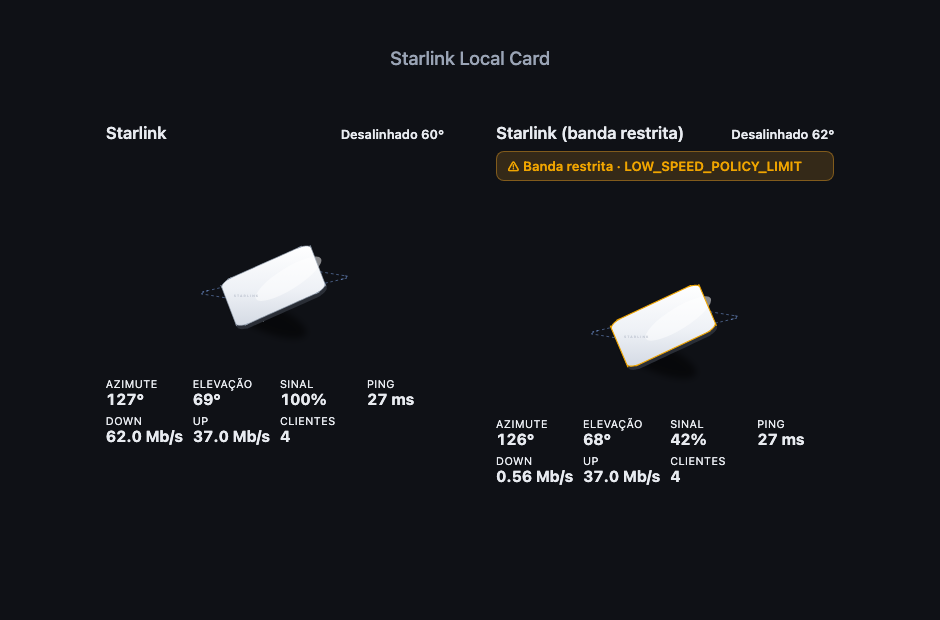
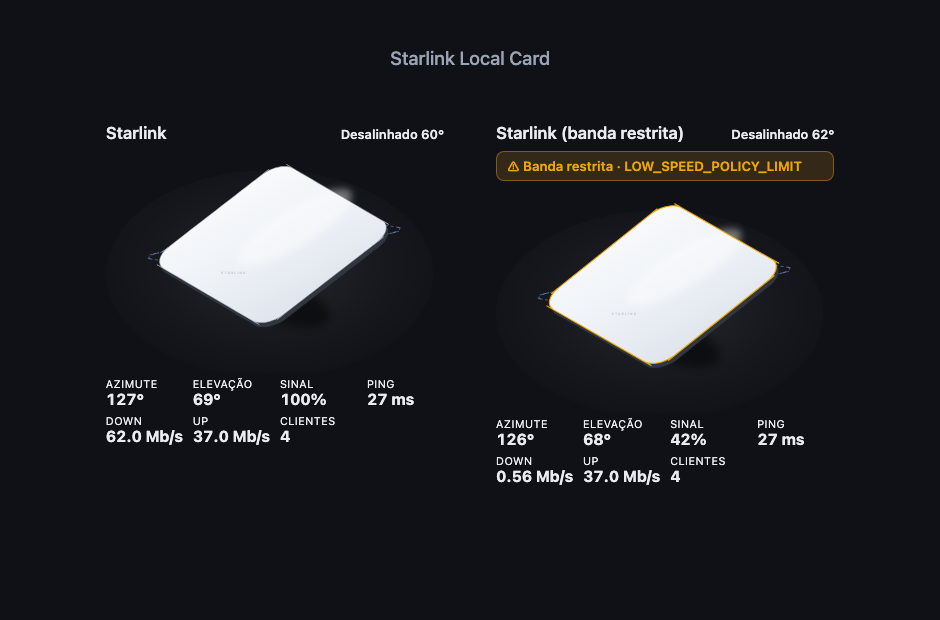
polish: product-render look — bigger centered dish, studio spotlight, soft diagonal sheen, refined contact shadow and thinner edge

Changed region(s): [[0.5862, 0.3065, 0.833, 0.6129], [0.1543, 0.2452, 0.4319, 0.4903], [0.2468, 0.4597, 0.3394, 0.5516]]

diff --git a/ha-starlink-local-card.js b/ha-starlink-local-card.js
@@ -6,13 +6,13 @@ const CAM = { az: 32, el: 22 };
 const RAD = Math.PI / 180;
 
 // --- camera / projection --------------------------------------------------
-function projection(width, height, pad = 30) {
+function projection(width, height, pad = 16) {
   const sinA = Math.sin(CAM.az * RAD), cosA = Math.cos(CAM.az * RAD);
   const sinE = Math.sin(CAM.el * RAD), cosE = Math.cos(CAM.el * RAD);
   const flat = ([x, y, z]) => [x * sinA - y * cosA, (x * cosA + y * sinA) * sinE - z * cosE];
   const pts = [];
-  for (const sx of [-1, 1]) for (const sy of [-1, 1]) for (const z of [-6, 150])
-    pts.push(flat([sx * 70, sy * 70, z]));
+  for (const sx of [-1, 1]) for (const sy of [-1, 1]) for (const z of [-4, 52])
+    pts.push(flat([sx * 80, sy * 74, z]));
   const xs = pts.map((p) => p[0]), ys = pts.map((p) => p[1]);
   const lo = [Math.min(...xs), Math.min(...ys)], hi = [Math.max(...xs), Math.max(...ys)];
   const scale = Math.min((width - pad * 2) / (hi[0] - lo[0]), (height - pad * 2) / (hi[1] - lo[1]));
@@ -46,8 +46,8 @@ const smoothPath = (pts) => {
 // --- Starlink Mini geometry (faithful to the official render) --------------
 // A thin flat rounded-rectangle slab: bright white face, dark edge band, a
 // small flip-out kickstand. It reclines to the dish's azimuth/elevation.
-const SLAB = { a: 68, b: 54, r: 15, t: 5 };        // half-w, half-h, corner, thickness
-const CENTER = [0, 0, 34];                          // slab centre, low to the ground
+const SLAB = { a: 70, b: 56, r: 16, t: 4 };        // half-w, half-h, corner, thickness
+const CENTER = [0, 0, 30];                          // slab centre, low to the ground
 const add = (p, v, s = 1) => [p[0] + v[0] * s, p[1] + v[1] * s, p[2] + v[2] * s];
 
 function frame(azDeg, elDeg) {
@@ -223,16 +223,16 @@ class StarlinkLocalCard extends HTMLElement {
         <div id="badge" class="badge" hidden></div>
         <svg viewBox="0 0 620 420" preserveAspectRatio="xMidYMid meet" aria-label="Starlink dish">
           <defs>
-            <linearGradient id="slFace" x1="0" y1="0" x2="0" y2="1">
-              <stop offset="0" stop-color="#ffffff"/><stop offset="0.55" stop-color="#eef1f6"/><stop offset="1" stop-color="#d4dae4"/>
+            <linearGradient id="slFace" x1="0.1" y1="0" x2="0.9" y2="1">
+              <stop offset="0" stop-color="#ffffff"/><stop offset="0.5" stop-color="#eef2f7"/><stop offset="1" stop-color="#d6dce6"/>
             </linearGradient>
-            <linearGradient id="slMast" x1="0" y1="0" x2="1" y2="0">
-              <stop offset="0" stop-color="#e9edf3"/><stop offset="1" stop-color="#c4ccd9"/>
-            </linearGradient>
-            <radialGradient id="slHub" cx="0.4" cy="0.35" r="0.7">
-              <stop offset="0" stop-color="#ffffff"/><stop offset="1" stop-color="#c9d1dd"/>
+            <radialGradient id="slStage" cx="0.5" cy="0.46" r="0.6">
+              <stop offset="0" stop-color="#ffffff" stop-opacity="0.10"/>
+              <stop offset="0.6" stop-color="#ffffff" stop-opacity="0.03"/>
+              <stop offset="1" stop-color="#ffffff" stop-opacity="0"/>
             </radialGradient>
           </defs>
+          <ellipse class="sl-spot" cx="300" cy="240" rx="300" ry="190"/>
           <g id="stand"></g><g id="ghost"></g><g id="mini"></g>
         </svg>
         <div class="readout">
@@ -259,14 +259,15 @@ ha-card{overflow:hidden}
 .badge{margin:8px 0 2px;padding:6px 10px;border-radius:8px;font-size:.82rem;font-weight:600;
   background:rgba(245,166,35,.16);color:#f0a500;border:1px solid rgba(245,166,35,.4)}
 svg{width:100%;height:auto;display:block}
-.sl-shadow{fill:rgba(10,14,22,.34);filter:blur(6px)}
-.sl-stand{fill:#e9edf2;stroke:#c3ccd8;stroke-width:1}
-.sl-stand-sh{fill:#cdd4de;opacity:.9}
-.sl-rim{fill:#2a2e36}
+.sl-spot{fill:url(#slStage)}
+.sl-shadow{fill:rgba(8,11,18,.38);filter:blur(9px)}
+.sl-stand{fill:#e4e9f0;stroke:#c3ccd8;stroke-width:1}
+.sl-stand-sh{fill:#c7cfdb;opacity:.9}
+.sl-rim{fill:#31353d}
 .sl-face{fill:url(#slFace)}
-.sl-edge{fill:none;stroke:#9aa6b6;stroke-width:1.2}
+.sl-edge{fill:none;stroke:#aab4c3;stroke-width:1}
 .sl-edge.warn{stroke:#f0a500;stroke-width:2}
-.sl-sheen{fill:#ffffff;opacity:.5}
+.sl-sheen{fill:#ffffff;opacity:.4;filter:blur(7px)}
 .sl-logo{fill:#aab2c0;font:700 6px/1 -apple-system,system-ui,sans-serif;letter-spacing:1.8px;text-anchor:middle;opacity:.55}
 .sl-ghost{fill:none;stroke:var(--primary-color,#8ab4ff);stroke-width:1.4;stroke-dasharray:5 5;opacity:.6}
 .readout{display:grid;grid-template-columns:repeat(4,1fr);gap:6px 10px;margin-top:4px}
@@ -280,4 +281,4 @@ svg{width:100%;height:auto;display:block}
 customElements.define("starlink-local-card", StarlinkLocalCard);
 window.customCards = window.customCards || [];
 window.customCards.push({ type: "starlink-local-card", name: "Starlink Local Card", description: "Antena Starlink que aponta pro az/el real da integração starlink_local.", preview: true });
-console.info("%c STARLINK-LOCAL-CARD %c v0.3.0 ", "background:#8ab4ff;color:#000;border-radius:3px 0 0 3px;padding:2px 4px", "background:#1b2130;color:#fff;border-radius:0 3px 3px 0;padding:2px 4px");
+console.info("%c STARLINK-LOCAL-CARD %c v0.4.0 ", "background:#8ab4ff;color:#000;border-radius:3px 0 0 3px;padding:2px 4px", "background:#1b2130;color:#fff;border-radius:0 3px 3px 0;padding:2px 4px");
